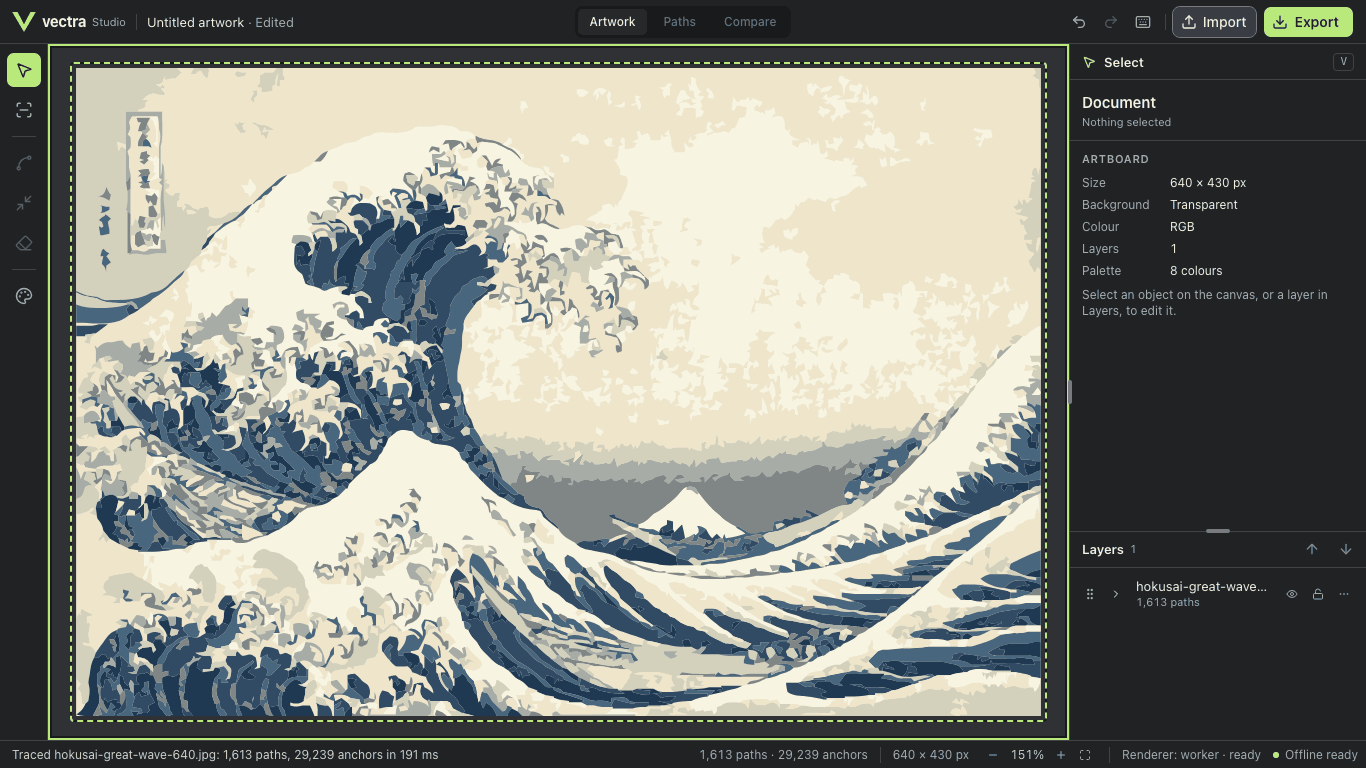
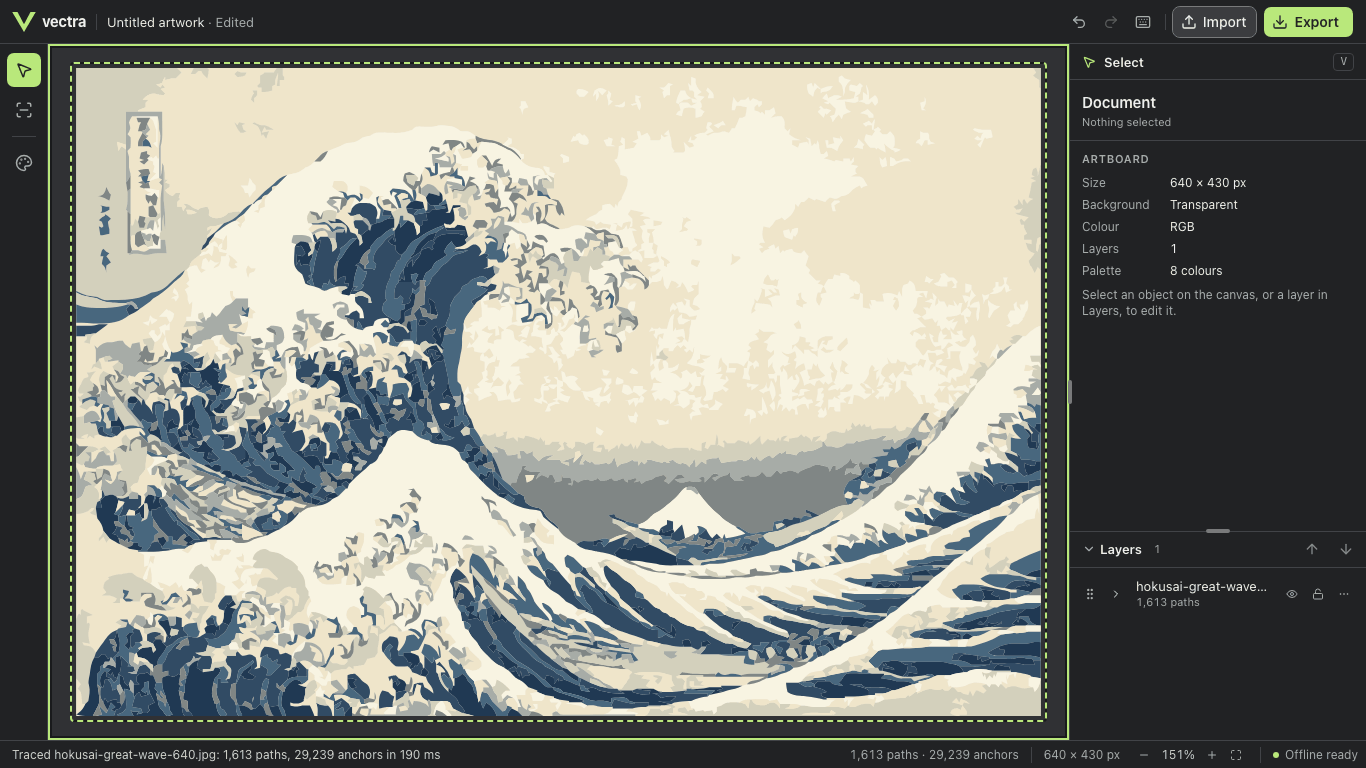
docs(g-ui-r): §15 merged head, final audit and verification; final screenshots
Playwright 360/0/0 (3 engines) and stress 630/630 on 30b2d60; bundle
114.3 / 9.4 / 230.6 KiB. The six committed after-screenshots are
replaced by the final head's (1366x768, palette-quantised, 0.93 MB).
Real Safari not run on this head: the macOS screen is locked.

diff --git a/docs/research/g-ui-r/G-UI-R-REPORT.md b/docs/research/g-ui-r/G-UI-R-REPORT.md
@@ -1,6 +1,6 @@
 # G-UI-R — Design refinement of the integrated workspace
 
-**Status:** ready for review, 2026-11-25. Branch `gate/g-ui-r`, built on `gate/g-r1-interactive` at `ee72fb3`, then merged with the final G-R1 head `24550b8` (merge `1e7c184`; §13 has the merged head's results). The PR is stacked on G-R1 (#19). Nothing is merged or deployed.
+**Status:** ready for maintainer review, 2026-11-25. Branch `gate/g-ui-r` (PR #20), stacked on G-R1 (#19). It took #19's corrected head by merge commits: §13 covers the first merge, §14 the maintainer-review corrections, and §15 the merged head, the final audit and the verification. Nothing is merged or deployed.
 **Scope:** visual and UX changes to `workspace.html` (via `src/shell/**` and `src/ui/**`) only. No document, renderer, hit-test, job or canvas-host code changed. The charcoal, lime and ivory identity is kept; the §4 palette is unchanged; one token was added (`ink-muted`).
 
 | Brief item | Result |
@@ -373,3 +373,46 @@ Accessible names are unchanged.
 **Screenshots.** None committed. Local after-captures were refreshed (`UI_R_SHOTS=after-review`, `tests/output/g-ui-r/after-review/`, gitignored), with scratch views of the fallback, the mixed picker and collapsed Layers. The lead produces the representative set.
 
 **NOT RUN:** real Safari (`tests/safari/*.mjs`; the lead runs it), VoiceOver (owner checklist: D1, D4, E2 and E5 updated), the other browser specs, and lower-end hardware, Windows and Linux.
+
+## 15. Merged head after the maintainer review (#19 corrected, the corrections, the final audit)
+**History** (merge commits only; nothing force-pushed):
+- `14c4e9a`: the review corrections (§14), fast-forwarded from the review branch.
+- `a66adc2`: merge of #19's corrected head `7b44bda`. It brings the canvas-host focus ring, the deletion lock policy, the test-race fixes and the review docs.
+  - Conflicts were resolved as follows: both sides' Layers props (collapse control, `onDelete`); both sets of unit tests; `styles.css` from #19.
+  - The **G-UI-R shell focus workaround** (`.vx-canvas-frame::after`), the old `.vectra-canvas:focus-visible` rule and the unused `vx-canvas-frame` class are **removed**. The canvas host draws its own ring above its layers.
+- `f7efb05`: the fallback disclosure test also asserts that the host settles ready.
+- `2303e18`: merge of #19's `247d094`, which adds the crash-fallback host-state fix (`17a3ac0`). It is a #19 canvas-host defect, found by the G-UI-R review agent (§14). Both fallback tests are kept.
+- `e2d133c`: the focused final Impeccable audit, [FINAL-AUDIT.md](FINAL-AUDIT.md). Score 15/20 ("Good"); no P0 or P1; 2 P2; 6 P3.
+- `30b2d60`: **the two P2 findings are fixed**, together with two merged-test fixes:
+  - **P2-1, WCAG 1.4.11.** The registry ghost variant's `dark:hover:bg-muted/50` overrode the pressed tool's lime, so its icon sat at about 1.03:1 under the pointer. Fixed with `dark:hover:bg-primary/90`.
+  - **P2-2, WCAG 2.5.8.** The "Resize inspector" splitter's pointer target was 8 px; it is now 24 px, centred on the split line. It therefore extends 12 px over the canvas's right edge, where the resize cursor shows. The Layers splitter stays at 8 px: a 24 px target would cover the Layers disclosure button.
+  - `ui-shell` asserts both in OS dark mode. Before the fix: 1.03–1.04:1 and 8 px in 3 engines.
+  - Lock test: the Recolor disclosure appears only when the document has palette colours, and this fixture has none. Its wording is asserted in `ui-document`.
+  - Focus-ring test: samples under a visible splitter grip (adjacent UI over the canvas edge in the docked layout) are excluded, at most 1/8. Hit-testing cannot decide occlusion, because the 24 px targets are invisible.
+- The audit's **P3s are reported, not fixed**:
+  - 11 px multi-line notes;
+  - no `main` landmark or h1;
+  - plain-Tab order in Playwright WebKit (to confirm in real Safari);
+  - token literals;
+  - a no-fill path shown as `#000000`;
+  - copy: the tab title "Vectra · Studio", and "this colour" in the mixed Fill note.
+
+**Verification on `30b2d60`** (the final source; later commits are docs and screenshots only). Environment: macOS 26.6.2 arm64, Node 24.22.1, pnpm 12.23.0, Playwright 1.65.1 (Chromium 159.0.8154.6, Firefox 159.0, WebKit 27.2). The machine is shared and was not quiet.
+
+| Check | Result |
+|---|---|
+| `vp check` | Clean (307 files formatted; no lint or type errors in 170) |
+| `vp test` | 26 files, **388 passed** (on `2303e18`; `30b2d60` changes no unit-tested code) |
+| Build | Dist check passed |
+| Bundle (gzip KiB) | Design-system JS **114.3**, CSS **9.4**, initial workspace JS **230.6** (budgets 150 / 15 / 250) |
+| Playwright full suite, 3 engines | **360 passed, 0 failed, 0 flaky**, 36 skipped (opt-in specs); 8.9 min; load average 1.28 → 1.70 |
+| Stress: `ui-shell`, `ui-document`, `workspace-a11y`, `workspace-integration`, `workspace-lifecycle`, `workspace-offline`, `drag-correctness`, `--repeat-each=3`, 3 engines | **630 passed**; 11.2 min; load average 1.70 → 2.52 |
+| Final representative screenshots | 6 states at 1366×768 from `30b2d60` (Chromium, production build), palette-quantised, replacing the committed `*-after.png`. 0.93 MB for the 6; the full set is local in `tests/output/g-ui-r/after-final/` |
+| Real Safari (`gui.mjs`, `gr1.mjs`) on this head | **NOT RUN: the macOS screen is locked**, so the automation page is hidden. To run once it is unlocked |
+
+**Earlier runs on `2303e18`, before the P2 fixes:**
+- Full suite: 353 passed, 4 failed.
+- Stress: 609 passed, 12 failed.
+
+The failures were deterministic and test-side only: the lock test expected the Recolor disclosure without palette colours, and in WebKit the splitter grip covered one ring sample. Both are fixed in `30b2d60`, as described above.
+
